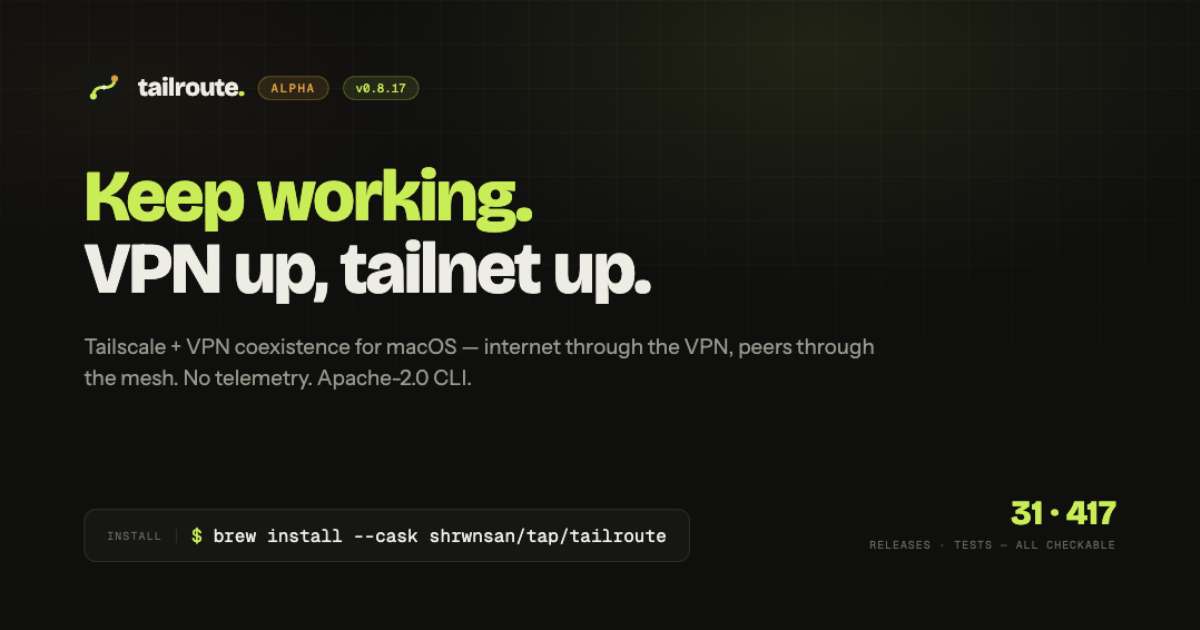
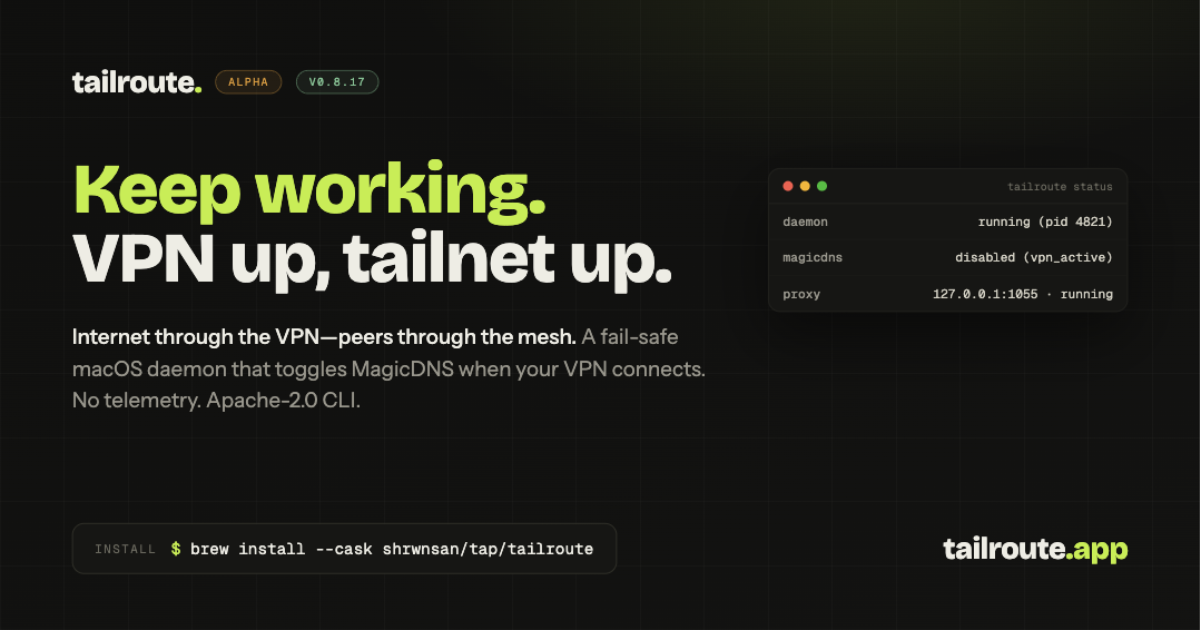
site(docs): brand + typography harmonization; OG card rebuilt in the current design language (#66)
* site(docs): brand + typography harmonization — shared type system, landing pills, wordmark; og card rebuilt in current design language

* site(docs): h1 doubles as the wordmark — second logo removed, pills beside it; landing title restores the tailroute-cli guardrail

* site(docs): macOS floor 12+ -> 15+ (uniform floor decision, supersedes the CLI/app split)

diff --git a/site/docs/index.html b/site/docs/index.html
@@ -14,12 +14,15 @@
 <meta property="og:image" content="https://tailroute.app/og.png">
 <meta name="twitter:card" content="summary_large_image">
 <link rel="icon" type="image/svg+xml" href="../favicon.svg">
+  <link rel="preconnect" href="https://fonts.googleapis.com">
+  <link rel="preconnect" href="https://fonts.gstatic.com" crossorigin>
+  <link href="https://fonts.googleapis.com/css2?family=Bricolage+Grotesque:wght@700;800&family=Geist+Mono:wght@400;500;700&family=Instrument+Sans:wght@400;500;600&display=swap" rel="stylesheet">
 <script type="application/ld+json">
 {
   "@context": "https://schema.org",
   "@type": "SoftwareApplication",
   "name": "tailroute-cli",
-  "operatingSystem": "macOS 12+",
+  "operatingSystem": "macOS 15+",
   "applicationCategory": "UtilitiesApplication",
   "description": "Fail-safe macOS daemon that toggles Tailscale MagicDNS when a VPN connects—internet through the VPN, peers through the mesh. Includes a SOCKS5 mesh proxy and launchd-managed browser tunnels.",
   "softwareVersion": "0.8.17",
@@ -31,9 +34,14 @@
 }
 </script>
 <style>
-  /* Deliberate choice: system monospace stack—this page is styled as the man
-     page it documents. No webfonts, no animations, no transitions. */
+  /* Manual register, shared brand voice: the type families match the landing
+     (Bricolage Grotesque display, Instrument Sans body, Geist Mono reference),
+     while the man-page form—one column, hairline rules, no animations—stays. */
   :root {
+    --disp: "Bricolage Grotesque", sans-serif;
+    --sans: "Instrument Sans", sans-serif;
+    --mono: "Geist Mono", ui-monospace, "SF Mono", Menlo, monospace;
+    --accent: var(--green);
     color-scheme: light dark;
     --paper: #fbfaf6;
     --ink: #1c1c18;
@@ -58,34 +66,42 @@
       --amber: #d9a03d;
       --amber-bg: #2b2418;
       --red: #e07a7a;
+      --accent: #c6f24e;
     }
   }
   * { margin: 0; padding: 0; box-sizing: border-box; }
   body {
     background: var(--paper);
     color: var(--ink);
-    font-family: ui-monospace, "SF Mono", Menlo, Monaco, "Cascadia Mono", monospace;
+    font-family: var(--sans);
     font-size: 15px;
     line-height: 1.7;
     padding: 56px 24px 88px;
   }
   main { max-width: 78ch; margin: 0 auto; }
   h1 {
+    font-family: var(--disp);
     font-size: 28px;
-    font-weight: 700;
-    letter-spacing: -0.01em;
+    font-weight: 800;
+    letter-spacing: -0.02em;
     margin: 0 0 8px;
   }
+  .title-row { display: flex; align-items: center; gap: 14px; flex-wrap: wrap; margin-bottom: 8px; }
+  .title-row h1 { margin: 0; }
+  .title-row h1 a { color: var(--ink); text-decoration: none; }
+  .title-row h1 a .dot { color: var(--accent); }
+  .title-row h1 a:hover .dot { text-decoration: underline; text-decoration-color: var(--accent); }
   .meta {
-    display: flex; align-items: center; gap: 10px; flex-wrap: wrap;
     font-size: 13px; color: var(--dim);
     margin-bottom: 20px;
   }
   h2 {
+    font-family: var(--mono);
     font-size: 11px;
     font-weight: 700;
     text-transform: uppercase;
-    letter-spacing: 0.12em;
+    letter-spacing: 0.14em;
+    color: var(--accent);
     border-bottom: 1px solid var(--rule);
     padding-bottom: 6px;
     margin: 48px 0 16px;
@@ -95,22 +111,26 @@
   a { color: var(--ink); text-decoration: underline; text-decoration-color: var(--faint); text-underline-offset: 3px; }
   a:hover { text-decoration-color: var(--ink); }
   p, li, td { overflow-wrap: anywhere; }
-  code { background: var(--green-bg); padding: 1px 5px; border-radius: 3px; }
+  code { font-family: var(--mono); background: var(--green-bg); padding: 1px 5px; border-radius: 3px; }
+  .meta, .toc, table, .note, .figcap { font-family: var(--mono); }
   .badge {
-    font-size: 11px;
-    font-weight: 700;
-    letter-spacing: 0.12em;
+    font-family: var(--mono);
+    font-size: 10px;
+    font-weight: 500;
+    text-transform: uppercase;
+    letter-spacing: 0.14em;
     color: var(--amber);
+    background: var(--amber-bg);
     border: 1px solid var(--amber);
-    border-radius: 3px;
-    padding: 1px 7px;
+    border-radius: 999px;
+    padding: 3px 10px;
     align-self: center;
   }
-  .badge.free { color: var(--green); border-color: var(--green); }
+  .badge.free { color: var(--green); background: var(--green-bg); border-color: var(--green); }
   /* on-this-page toc + backlink to landing */
   .backlink { color: var(--dim); white-space: nowrap; }
   .toc { font-size: 12px; color: var(--dim); margin: 0 0 8px; }
-  .toc .toc-label { font-size: 11px; font-weight: 700; text-transform: uppercase; letter-spacing: 0.12em; color: var(--faint); }
+  .toc .toc-label { font-family: var(--mono); font-size: 11px; font-weight: 700; text-transform: uppercase; letter-spacing: 0.14em; color: var(--accent); }
   .toc a { color: var(--dim); }
   .synopsis {
     background: var(--paper);
@@ -176,8 +196,12 @@
 <body>
 <main>
 
-  <h1>tailroute</h1>
-  <p class="meta"><a class="backlink" href="../">← tailroute</a> <span class="badge">alpha</span> <span class="badge free">v0.8.17</span> <span>tailroute-cli manual · apache-2.0 · macOS 12+ · free &amp; open source</span></p>
+  <div class="title-row">
+    <h1><a href="../" aria-label="tailroute home">tailroute<span class="dot">.</span></a></h1>
+    <span class="badge" title="pre-v1.0 software">alpha</span>
+    <span class="badge free">v0.8.17</span>
+  </div>
+  <p class="meta">tailroute-cli manual · apache-2.0 · macOS 15+ · free &amp; open source</p>
   <p class="toc"><span class="toc-label">On this page</span> ·
      <a href="#name">name</a> ·
      <a href="#the-problem">the problem</a> ·
@@ -314,7 +338,7 @@
 
 </main>
 <footer>
-  <p class="colophon">No trackers, no webfonts, no analytics on this page—the daemon doesn't call home either.</p>
+  <p class="colophon">No trackers, no analytics on this page—the daemon doesn’t call home either.</p>
   <p class="legal">CLI: Apache-2.0 · App: proprietary · © 2026 <a href="https://github.com/shrwnsan/tailroute-cli">tailroute</a> · not affiliated with Tailscale Inc. · <a class="backlink" href="../">← tailroute</a></p>
 </footer>
 <script>

diff --git a/assets/og-card.html b/assets/og-card.html
@@ -1,0 +1,82 @@
+<!doctype html>
+<html lang="en">
+<head>
+<meta charset="utf-8">
+<link rel="preconnect" href="https://fonts.googleapis.com">
+<link rel="preconnect" href="https://fonts.gstatic.com" crossorigin>
+<link href="https://fonts.googleapis.com/css2?family=Bricolage+Grotesque:wght@800&family=Geist+Mono:wght@400;500&family=Instrument+Sans:wght@400;500&display=swap" rel="stylesheet">
+<style>
+  * { margin: 0; padding: 0; box-sizing: border-box; }
+  html, body { width: 1200px; height: 630px; overflow: hidden; }
+  body {
+    background:
+      radial-gradient(ellipse 55% 45% at 72% -5%, rgba(198,242,78,0.09), transparent 70%),
+      linear-gradient(160deg, #0d0d0b, #121210);
+    color: #f0efe8;
+    font-family: "Instrument Sans", sans-serif;
+    position: relative;
+  }
+  .grid { position: absolute; inset: 0;
+    background:
+      repeating-linear-gradient(0deg, rgba(240,239,232,0.022) 0 1px, transparent 1px 64px),
+      repeating-linear-gradient(90deg, rgba(240,239,232,0.022) 0 1px, transparent 1px 64px);
+  }
+  .wrap { position: absolute; inset: 0; padding: 64px 72px; }
+  .head { display: flex; align-items: center; gap: 14px; }
+  .brand { font-family: "Bricolage Grotesque", sans-serif; font-weight: 800; font-size: 30px; letter-spacing: -0.02em; }
+  .brand i { font-style: normal; color: #c6f24e; }
+  .pill { font-family: "Geist Mono", monospace; font-size: 11px; letter-spacing: 0.14em; text-transform: uppercase;
+    color: #e8a33d; background: rgba(232,163,61,0.09); border: 1px solid rgba(232,163,61,0.35); border-radius: 999px; padding: 4px 12px; }
+  .pill.ver { color: #82cf9f; background: rgba(130,207,159,0.08); border-color: rgba(130,207,159,0.4); }
+  h1 { margin-top: 56px; font-family: "Bricolage Grotesque", sans-serif; font-weight: 800;
+    font-size: 70px; line-height: 0.98; letter-spacing: -0.025em; max-width: 680px; }
+  h1 em { font-style: normal; color: #c6f24e; }
+  .sub { margin-top: 28px; font-size: 21px; line-height: 1.5; color: #a3a096; max-width: 660px; }
+  .sub b { color: #f0efe8; font-weight: 500; }
+  .foot { position: absolute; left: 72px; right: 72px; bottom: 56px;
+    display: flex; align-items: center; justify-content: space-between; gap: 40px; }
+  .chip { display: flex; align-items: center; gap: 14px; border: 1px solid #38382e; background: #161613;
+    border-radius: 12px; padding: 14px 22px; font-family: "Geist Mono", monospace; font-size: 16px; }
+  .chip .k { color: #747267; font-size: 12px; letter-spacing: 0.14em; }
+  .chip .d { color: #c6f24e; }
+  .url { font-family: "Bricolage Grotesque", sans-serif; font-weight: 800; font-size: 30px;
+    letter-spacing: -0.02em; color: #f0efe8; }
+  .url span { color: #c6f24e; }
+  .win { position: absolute; right: 72px; top: 168px; width: 360px; background: #161613;
+    border: 1px solid #262620; border-radius: 12px; overflow: hidden; box-shadow: 0 24px 60px rgba(0,0,0,0.45); }
+  .win .bar { display: flex; align-items: center; padding: 10px 14px; border-bottom: 1px solid #262620; }
+  .win .dot { width: 10px; height: 10px; border-radius: 50%; margin-right: 7px; }
+  .win .t { margin-left: auto; font-family: "Geist Mono", monospace; font-size: 11px; color: #747267; }
+  .win .row { display: flex; justify-content: space-between; font-family: "Geist Mono", monospace;
+    font-size: 12.5px; padding: 9px 14px; border-bottom: 1px solid #1b1b17; }
+  .win .row:last-child { border-bottom: none; }
+  .win .row b { font-weight: 500; color: #a3a096; }
+  .win .row span { color: #d9d6ca; }
+</style>
+</head>
+<body>
+  <div class="grid"></div>
+  <div class="wrap">
+    <div class="head">
+      <div class="brand">tailroute<i>.</i></div>
+      <div class="pill">alpha</div>
+      <div class="pill ver">v0.8.17</div>
+    </div>
+    <h1><em>Keep working.</em><br>VPN up, tailnet&nbsp;up.</h1>
+    <p class="sub"><b>Internet through the VPN—peers through the mesh.</b> A fail-safe macOS daemon that toggles MagicDNS when your VPN connects. No telemetry. Apache-2.0 CLI.</p>
+    <div class="foot">
+      <div class="chip"><span class="k">INSTALL</span><span><span class="d">$</span> brew install --cask shrwnsan/tap/tailroute</span></div>
+      <div class="url">tailroute<span>.app</span></div>
+    </div>
+    <div class="win">
+      <div class="bar">
+        <span class="dot" style="background:#ff5f57"></span><span class="dot" style="background:#febc2e"></span><span class="dot" style="background:#28c840"></span>
+        <span class="t">tailroute status</span>
+      </div>
+      <div class="row"><b>daemon</b><span>running (pid 4821)</span></div>
+      <div class="row"><b>magicdns</b><span>disabled (vpn_active)</span></div>
+      <div class="row"><b>proxy</b><span>127.0.0.1:1055 · running</span></div>
+    </div>
+  </div>
+</body>
+</html>

diff --git a/site/index.html b/site/index.html
@@ -3,12 +3,12 @@
 <head>
 <meta charset="UTF-8">
 <meta name="viewport" content="width=device-width, initial-scale=1.0">
-<title>tailroute—Tailscale + VPN coexistence for macOS</title>
+<title>tailroute-cli—Tailscale + VPN coexistence for macOS</title>
   <meta name="description" content="A fail-safe macOS daemon that toggles Tailscale's MagicDNS when your VPN connects—internet through the VPN, peers through the mesh. No telemetry. Apache-2.0 CLI.">
   <link rel="canonical" href="https://tailroute.app/">
   <meta property="og:type" content="website">
   <meta property="og:site_name" content="tailroute">
-  <meta property="og:title" content="tailroute—Tailscale + VPN coexistence for macOS">
+  <meta property="og:title" content="tailroute-cli—Tailscale + VPN coexistence for macOS">
   <meta property="og:description" content="Internet through your VPN. Peers through your mesh. One fail-safe daemon toggles MagicDNS when your VPN connects.">
   <meta property="og:url" content="https://tailroute.app/">
   <meta property="og:image" content="https://tailroute.app/og.png">
